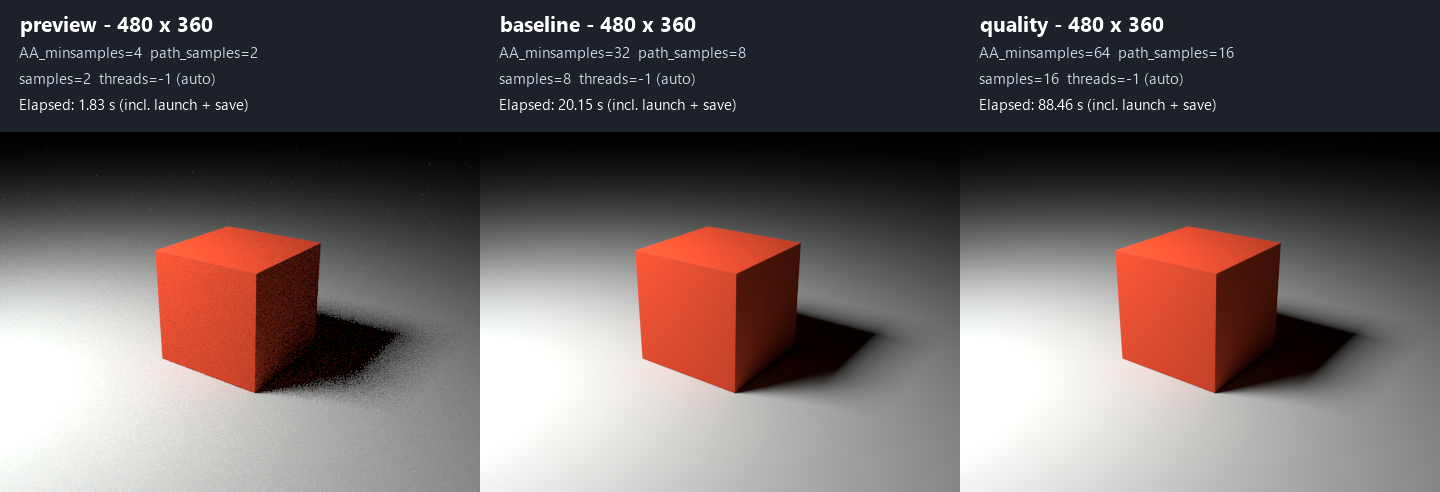
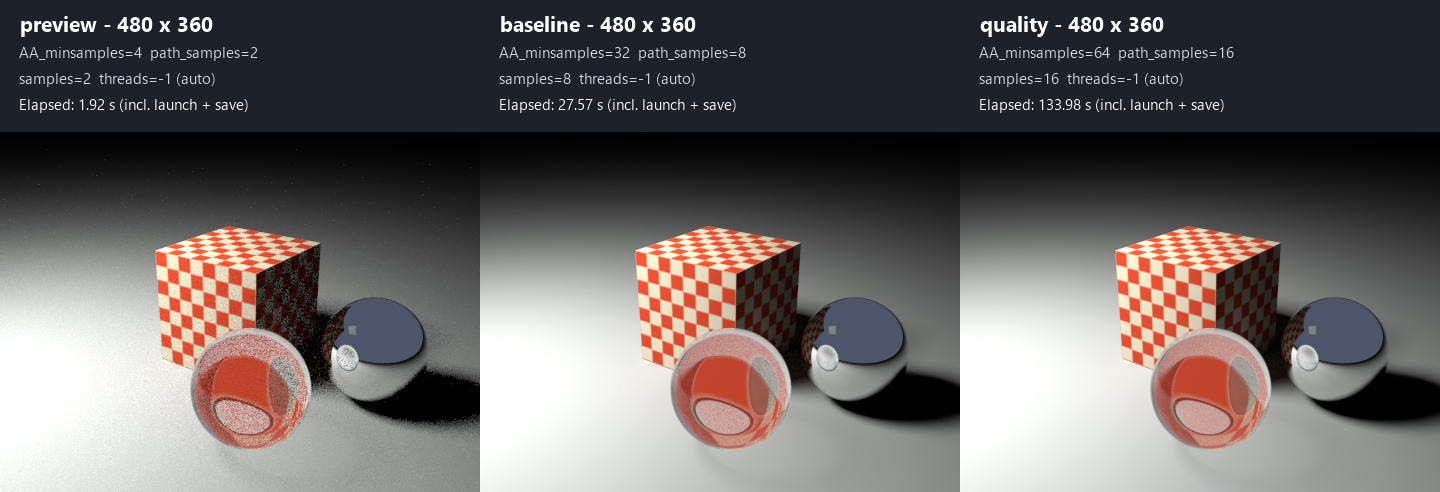
Refresh render quality comparison
Update the comparison images and README with measurements and visual observations for the current textured scene, including the mirror and glass spheres.

diff --git a/examples/render_scene/README.md b/examples/render_scene/README.md
@@ -166,29 +166,30 @@ to compare overall presets; use individual CLI options to isolate one setting.
 The total script time also includes PNG generation, while per-profile CSV times
 continue to measure only their individual render invocations.
 
-Measured on this machine on 3 November 2026, with the installed TDM-GCC-64
-Release shared library, 480 x 360 output and `-Threads -1` (8 detected workers):
+Measured on this machine on 3 November 2026 for the textured cube with mirror
+and glass spheres, with the installed TDM-GCC-64 Release shared library,
+480 x 360 output and `-Threads -1` (8 detected workers).
+Run directory: `build/quality-comparison/20261103-202317-707`.
 
 | Profile | Elapsed wall time | Renderer-only time |
 | --- | --- | --- |
-| preview | 1.83 s | 0.758 s |
-| baseline | 20.15 s | 19.071 s |
-| quality | 88.46 s | 87.432 s |
-| Entire script | 110.50 s (1 min 50.5 s) | — |
+| preview | 1.92 s | 0.928 s |
+| baseline | 27.57 s | 26.588 s |
+| quality | 133.98 s | 133.019 s |
+| Entire script, including comparison PNGs | 164.79 s (2 min 44.79 s) | — |
 
-Budget approximately 2 minutes for this complete set under similar conditions.
+Budget approximately 3 minutes for this complete set under similar conditions.
 This is a single measured run, not a guarantee; worker count, CPU load, hardware
 and build configuration affect time. Increasing several sample counts together
 does not produce a simple linear runtime increase. Build/configuration time is
 not included because the script uses the already-built example.
-These measurements predate automatic PNG generation; generating both PNGs from
-the existing images adds a small conversion overhead to future full runs.
+The total includes automatic PNG generation and headings; per-profile times
+include the corresponding xmake launch, render and TGA saving.
 
 ### Visual comparison: preview, baseline and quality
 
-These reference images and timings show the earlier, untextured red cube without
-the spheres. New runs use the checkerboard texture and both spheres described
-below; their timings may differ.
+These reference images and timings show the current scene: the checkerboard
+cube, mirror sphere and glass sphere, rendered in the run identified above.
 
 Left to right: **preview — baseline — quality**, from the same measured run
 above. Each panel shows the original 480 x 360 render, converted losslessly
@@ -197,24 +198,26 @@ and elapsed time in a heading above it. Times include launch and TGA saving.
 
 ![Preview, baseline and quality side by side](images/quality-comparison.png)
 
-The same crop of the dark cube face and shadow is enlarged 3x below, in the
-same order, using nearest-neighbor scaling so smoothing does not hide noise.
+The same crop of the dark cube face, spheres and nearby floor is enlarged 3x
+below, in the same order, using nearest-neighbor scaling so smoothing does not
+hide noise. The fixed crop now also exposes noise in glass and reflections.
 
-![Dark face and shadow: preview, baseline and quality at 3x](images/quality-comparison-detail.png)
+![Dark face, spheres and floor: preview, baseline and quality at 3x](images/quality-comparison-detail.png)
 
 | Profile | Elapsed time | Visible quality | When to use it |
 | --- | --- | --- | --- |
-| preview | 1.83 s | Strong grain on the cube, floor and penumbra; lighting and composition are already clear | Quick iteration on geometry, camera and lighting |
-| baseline | 20.15 s | A large reduction in noise; almost smooth surfaces and a clearly readable soft shadow | Routine evaluation and most finished images of this simple scene |
-| quality | 88.46 s | Cleaner dark face and smoother penumbra; the improvement is subtle at normal display size | Final output when inspecting enlarged details or when residual noise matters |
+| preview | 1.92 s | Strong grain on the dark cube face, floor, glass and reflections; composition and material differences are clear | Quick iteration on geometry, camera, textures and lighting |
+| baseline | 27.57 s | Much cleaner cube, floor and mirror; visible grain remains in glass and its reflection | Routine evaluation and an effective working preview of the full scene |
+| quality | 133.98 s | Cleaner dark face and reflections; glass still has some noise, especially when enlarged | Final output when the extra cleanliness matters, with further sampling potentially needed for glass |
 
 For this scene, **baseline offers the best balance of quality and time**.
 The jump from preview to baseline is clearly visible and worthwhile for a
-finished image. Quality costs about **4.4 times** as much as baseline, while
-its improvement is mainly visible in the enlarged crop. Use preview while
-adjusting the scene, baseline to judge the result, and quality selectively for
-the final render. This conclusion applies to this scene and resolution; more
-complex lighting can need different sampling settings.
+finished image. Quality costs about **4.9 times** as much as baseline. Its
+improvement is clearest in the enlarged dark face and reflections; it does not
+make the glass completely noise-free. Use preview while adjusting the scene,
+baseline to judge the result, and quality selectively for the final render.
+This conclusion applies to this scene and resolution; more complex lighting
+can need different sampling settings.
 
 These images are documentation assets stored outside the ignored build tree,
 so cleaning generated renders does not remove this comparison.
@@ -230,8 +233,8 @@ executable launches need this DLL directory and the toolchain runtimes in PATH.
 
 1. Create the logger, scene and parameter maps.
 2. Generate a checkerboard image in memory, create its texture and material,
-   and create triangle meshes for the cube, floor and emitter, plus an analytic
-   mirror and glass spheres as analytic primitives.
+   and create triangle meshes for the cube, floor and emitter, plus mirror and
+   glass spheres as analytic primitives.
 3. Add an area light linked to the emitter mesh and a constant background.
 4. Configure path tracing, the film, anti-aliasing and perspective camera.
 5. Attach a TGA output, preprocess the scene and render.
@@ -372,7 +375,7 @@ Parameter names and behavior were checked against this repository's
 Verified on 3 November 2026 using the installed shared library from commit
 `8f4906ae88f8a527bbce37991a95e3e3857cb9ac`, TDM-GCC-64 10.3.0 and xmake 3.1.2:
 build and rendering succeeded; the TGA was decoded and visually inspected.
-The updated area-light/path-tracing scene rendered in approximately 41 seconds
-on this machine with two render threads. The shadow has a visible penumbra and
-the formerly black cube face receives reflected light from the floor. Timing
-depends on hardware; some Monte Carlo noise remains at these preview settings.
+The current textured scene with both spheres was verified in all three profiles;
+the measured times are listed above. The shadow has a visible penumbra, the dark
+cube face receives reflected light, and the spheres show reflection and
+refraction. Timing depends on hardware; glass retains some Monte Carlo noise.
